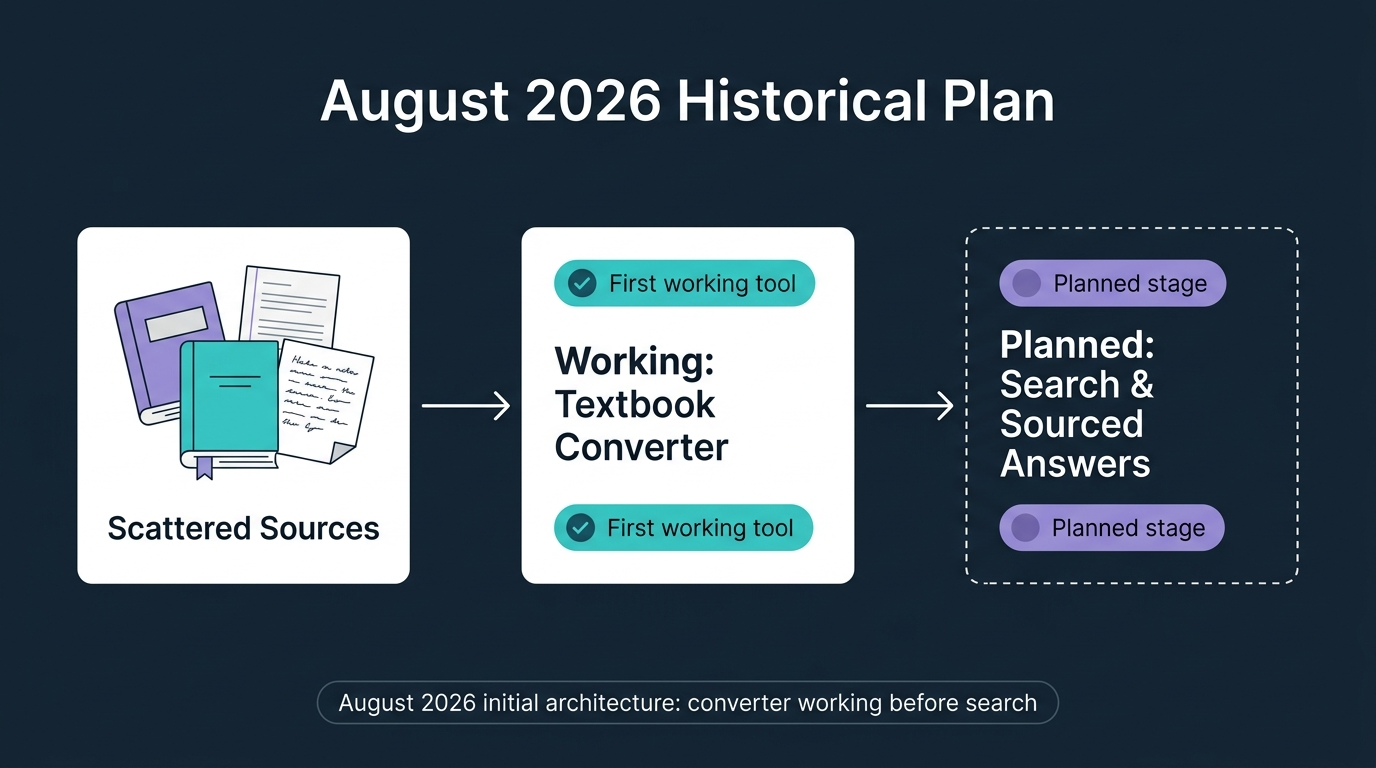
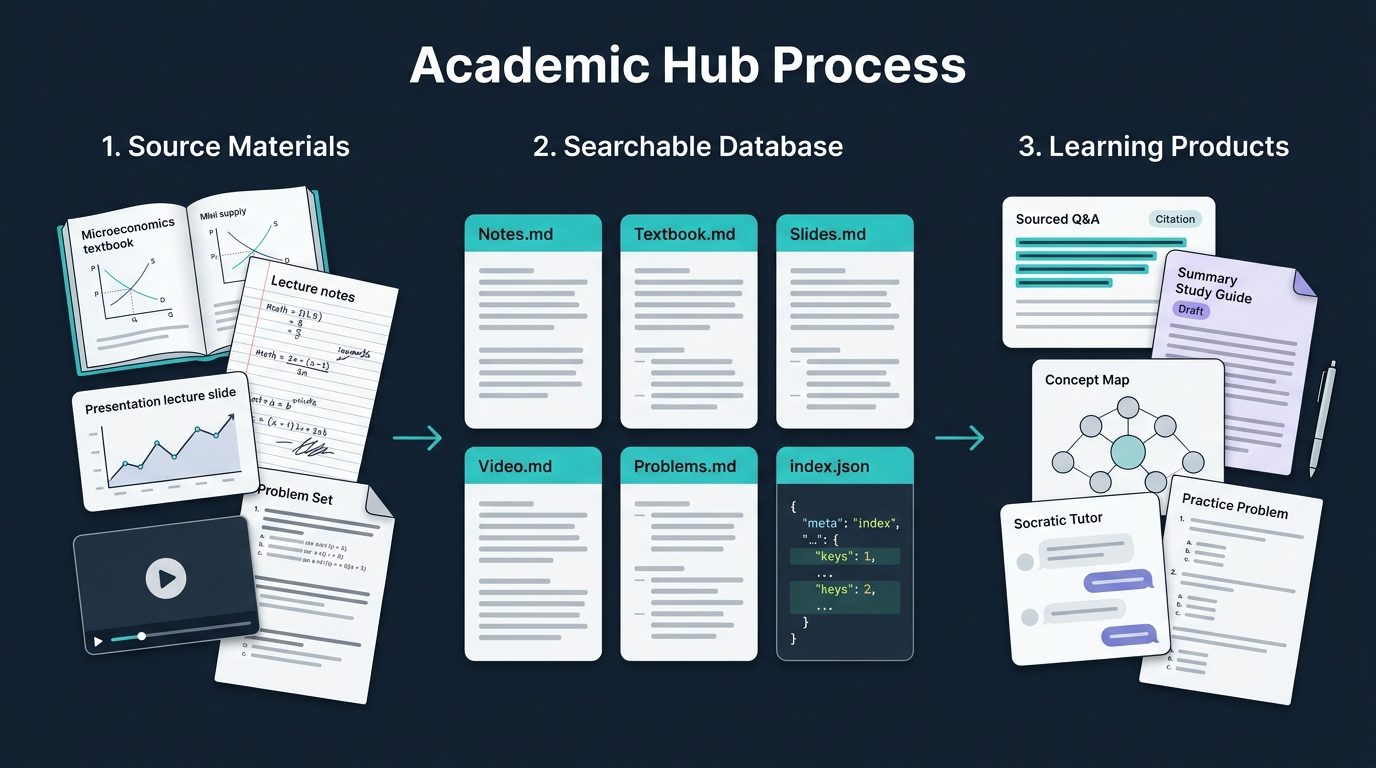
feat(website): integrate approved featured cover and in-body workflow diagram for introducing academic hub
# Conflicts:
#	content/blog/academic_hub/index.md

diff --git a/content/blog/academic_hub/index.md b/content/blog/academic_hub/index.md
@@ -10,8 +10,8 @@ tags:
   - LLM / RAG
   - Python
 image:
-  caption: "Illustration: The August 2026 plan had textbook conversion working while search and sourced answers were still planned."
-  alt_text: "An August 2026 roadmap shows scattered sources feeding a working textbook converter, followed by search and sourced answers marked as planned."
+  caption: "Illustration: Academic Hub brings course materials into a searchable workspace for source-linked study."
+  alt_text: "Textbooks, notes, slides, problem sets, and video explainers connect to a searchable database of text files that feeds sourced answers, study guides, concept maps, and tutoring tools."
   focal_point: Center
 ---
 
@@ -22,6 +22,8 @@ My solution for my own coursework was the [Academic Hub](https://aaronscherf.git
 <!--more-->
 
 Most of these applications could be replicated with a standard online AI model, but the default agents lacked the context of my specific courses. Retrieval-augmented generation (RAG) models that can train on or incorporate specific files to produce more relevant answers are available, but dropping whole PDFs into a system like a Gemini Notebook is very token expensive, they waste most of their compute just processing inputs. By front-loading the transcription and indexing process, then standardizing it across my courses, I can run any type of LLM agent (subscription based, local, or API) and get highly relevant results based on my exact materials, with citations to source context, at a fraction of the cost. The more source materials I included, the more summaries and problem sets I generated, the better the collection becomes; by the end of the semester, I could just say "looking back at my previous notes and homeworks, help me review this section" and I could create much more useful review materials with far less effort.
+
+{{< figure src="academic-hub-workflow.png" caption="Converted materials provide a shared source collection for several study tools; their outputs still need review." alt="Textbooks, notes, and slides become searchable text; a question retrieves source passages that support separate answer and study-aid drafts for review." >}}
 
 The Academic Hub pipeline is completely reproducible too. Each step is modular, so when I found that my initial transcription approach (using Gemini API credits) was becoming too costly, I was able to switch out specific steps with a subscription-based model (or a local GPU-based model). Applying the entire range of tools to a new course is as simple as dropping in a folder of old notes, slides, and problem sets. Courses can build on each other, so if a topic from Microeconomics I comes up again in Micro II, all of my previous notes can be used to inform the new questions and help me review. Once large PDFs are converted to markdown text files, the storage requirements are minimal--I can [sync my entire notes directory](https://aaronscherf.github.io/projects/academic-hub/obsidian_git_sync/) to my tablet via GitHub and Obsidian.
 
